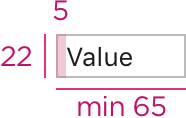
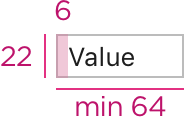
Update Input field minimal width.

diff --git a/_docs/controls/input_field.md b/_docs/controls/input_field.md
@@ -123,7 +123,7 @@ Do **not** prefill with “Unnamed”. It takes time to read it and does not hel
 
 ### Sizes and placement
 
-* Choose width appropriate for the most common values, but not less than 65px. Field width helps user to understand what value is expected and to make sure that they filled the field correctly.
+* Choose width appropriate for the most common values, but not less than 64px. Field width helps user to understand what value is expected and to make sure that they filled the field correctly.
 
     <table>
         <tr>
